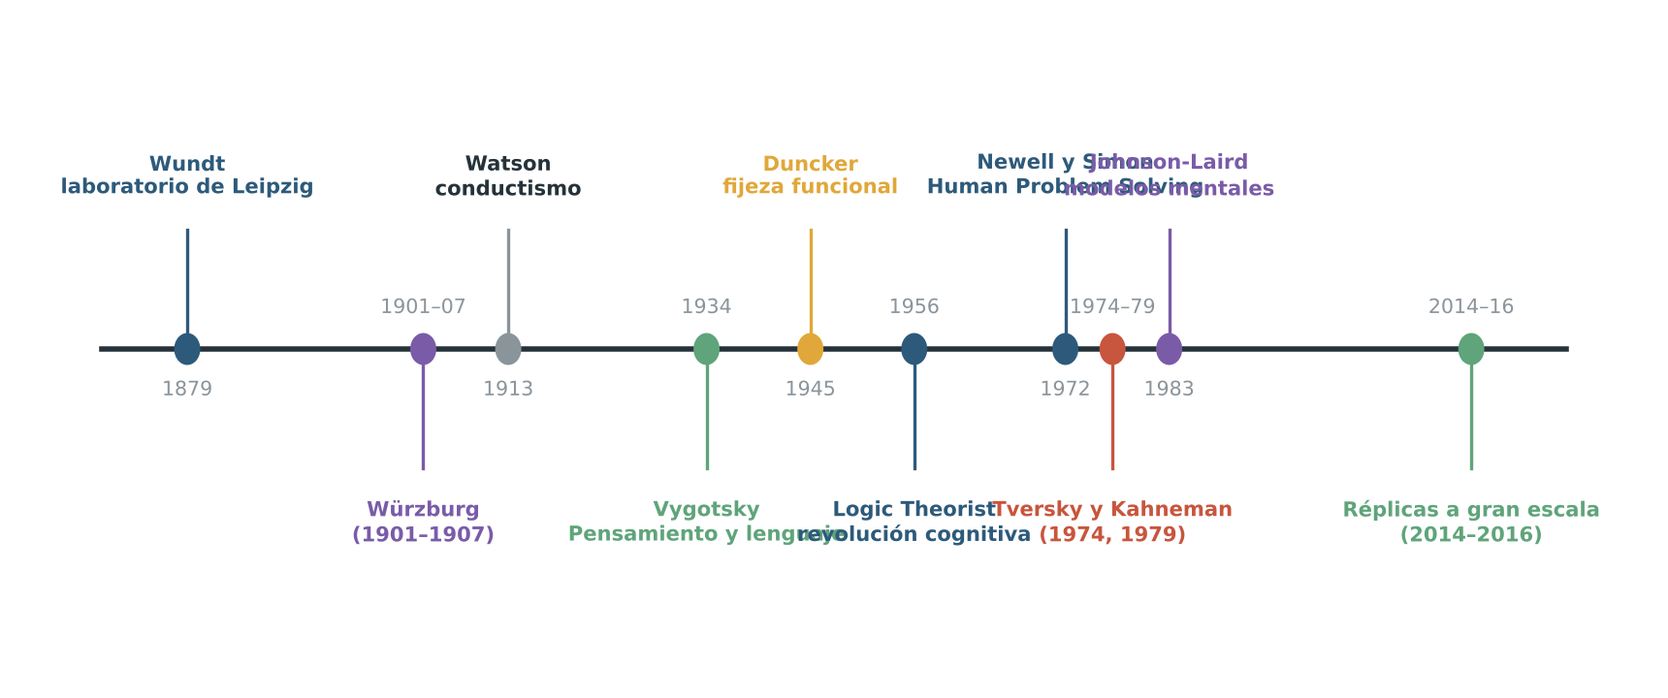
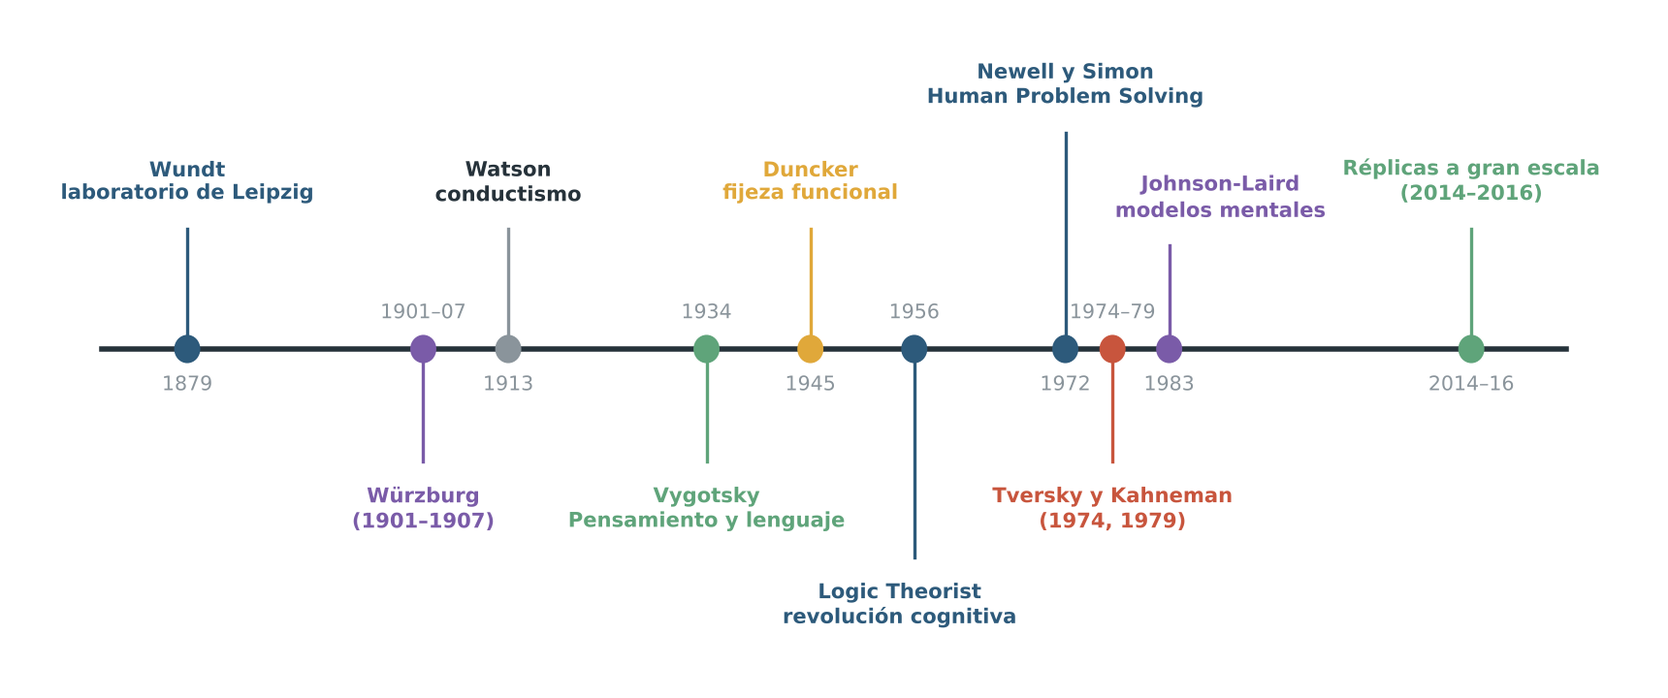
Psicología del Pensamiento: correcciones de la revisión, figuras rehechas y bibliografía
Claude-Session: https://claude.ai/code/session_015DUpSTs1MN9eQeyMEsi2dT

diff --git a/temarios/pensamiento/tools/figuras.py b/temarios/pensamiento/tools/figuras.py
@@ -55,13 +55,16 @@ if want('hitos'):
     x0, x1 = 1870, 2025
     X = lambda yr: 1 + (yr - x0) / (x1 - x0) * 20
     ax.plot([1, 21], [3.5, 3.5], color=INK, lw=2)
+    LV = {1879: 5.6, 1904: 1.5, 1913: 5.6, 1934: 1.5, 1945: 5.6, 1956: 0.3, 1972: 6.8, 1977: 1.5, 1983: 5.4, 2015: 5.6}
+    DX = {1983: .7, 1956: -.2}
     for i, (yr, t, c) in enumerate(H):
-        x = X(yr); up = i % 2 == 0; y = 5.4 if up else 1.6
+        x = X(yr); y = LV[yr]; up = y > 3.5
         ax.plot([x, x], [3.5, y + (-.6 if up else .6)], color=c, lw=1.2)
         ax.add_patch(Circle((x, 3.5), .16, color=c, zorder=3))
         lab = {1904: '1901–07', 1977: '1974–79', 2015: '2014–16'}.get(yr, str(yr))
         ax.text(x, 3.5 + (.45 if not up else -.45), lab, ha='center', va='center', fontsize=7.4, color=MUTE)
-        ax.text(x, y, t, ha='center', va='center', fontsize=7.6, color=c if c != MUTE else INK, weight='bold', linespacing=1.2)
+        ax.text(x + DX.get(yr, 0), y, t, ha='center', va='center', fontsize=7.6, color=c if c != MUTE else INK, weight='bold', linespacing=1.2)
+    ax.set_ylim(-.5, 7.5)
     save(fig, 'hitos.png')
 
 # U3 · protocolos verbales
@@ -81,7 +84,7 @@ if want('protocolos'):
 
 # U4 · conceptos
 if want('conceptos'):
-    fig, axs = plt.subplots(1, 3, figsize=(8.4, 3.2))
+    fig, axs = plt.subplots(1, 3, figsize=(8.4, 3.7))
     for ax in axs: ax.set_xlim(0, 10); ax.set_ylim(0, 10); ax.axis('off'); ax.set_aspect('equal')
     a = axs[0]; a.add_patch(Rectangle((1.5, 2), 7, 6, fc='#E6EEF4', ec=P, lw=2))
     for (x, y) in [(3, 6), (5, 4.5), (7, 6.5), (4, 3.2), (6.5, 3.5)]: a.add_patch(Circle((x, y), .45, color=P))
@@ -98,6 +101,7 @@ if want('conceptos'):
     a.add_patch(Circle((5, 5.6), .5, fc='white', ec=A, lw=2)); a.text(5, 5.6, '?', ha='center', va='center', color=A, weight='bold')
     for (x, y) in pts: a.plot([5, x], [5.6, y], color=A, lw=.8, ls=':')
     a.set_title('Ejemplares\nse compara el caso nuevo\ncon casos almacenados', fontsize=8.6)
+    fig.subplots_adjust(top=.76, bottom=.06)
     fig.text(.01, .02, 'Esquema ilustrativo, no datos', fontsize=7.4, color=MUTE)
     save(fig, 'conceptos.png')
 
@@ -108,7 +112,7 @@ if want('relatividad'):
     ax.add_patch(FancyArrowPatch((.5, 4.2), (11.5, 4.2), arrowstyle='<|-|>', mutation_scale=14, color=INK, lw=1.6))
     ax.text(.5, 5.0, 'Determinismo\n(versión fuerte, abandonada)', fontsize=8.2, color=A, weight='bold', va='center')
     ax.text(11.5, 5.0, 'Influencia\n(versión débil, evidencia mixta)', fontsize=8.2, color=G, weight='bold', va='center', ha='right')
-    for x, t, c in [(8.2, 'Número:\nlos numerales\ncomo herramienta', G), (9.9, 'Color:\nefectos\ncategoriales\nmodulados', P), (6.2, 'Tiempo vertical\nen mandarín:\nno replicado', A)]:
+    for x, t, c in [(7.0, 'Número:\nlos numerales\ncomo herramienta', G), (10.3, 'Color:\nefectos\ncategoriales\nmodulados', P), (3.7, 'Tiempo vertical\nen mandarín:\nno replicado', A)]:
         ax.add_patch(Circle((x, 4.2), .17, color=c, zorder=3)); ax.text(x, 2.6, t, ha='center', va='center', fontsize=7.6, color=c, weight='bold')
     ax.text(0.5, .5, 'Esquema ilustrativo', fontsize=7.4, color=MUTE)
     b = fig.add_axes([.66, .2, .32, .65])
@@ -380,12 +384,14 @@ if want('calor'):
 # U14 · Torre de Hanói (grafo de estados)
 if want('hanoi'):
     import itertools
-    def pos(s, d, size):
+    C = {0: (0, 0), 1: (-1, -1.7320508), 2: (1, -1.7320508)}
+    def pos(s, d, size, perm=(0, 1, 2)):
+        # triángulo de Sierpinski: el disco mayor elige el subtriángulo; dentro, se intercambian las otras dos esquinas
         if d == 0: return (0, 0)
-        # triángulo recursivo de Sierpinski: el disco mayor (último) decide el subtriángulo
-        peg = s[d - 1]; off = {0: (0, 0), 1: (-1, -1.7320508), 2: (1, -1.7320508)}[peg]
-        sub = pos(s, d - 1, size / 2); k = size / 2
-        return (off[0] * k + sub[0], off[1] * k + sub[1])
+        c = perm[s[d - 1]]; o = [k for k in (0, 1, 2) if k != c]
+        sw = {c: c, o[0]: o[1], o[1]: o[0]}
+        sub = pos(s, d - 1, size / 2, tuple(sw[perm[k]] for k in range(3))); k = size / 2
+        return (C[c][0] * k + sub[0], C[c][1] * k + sub[1])
     states = list(itertools.product(range(3), repeat=3))
     P2 = {s: pos(s, 3, 4) for s in states}
     def legal(a, b):
@@ -401,8 +407,8 @@ if want('hanoi'):
     for s in states: ax.add_patch(Circle(P2[s], .16, color=P if s not in opt else A, zorder=3))
     ax.text(P2[(0, 0, 0)][0], P2[(0, 0, 0)][1] + .45, 'Inicio: los 3 discos en la varilla 1', ha='center', fontsize=8.4, color=INK, weight='bold')
     ax.text(P2[(2, 2, 2)][0] + .3, P2[(2, 2, 2)][1] - .45, 'Meta: los 3 en la varilla 3', ha='center', fontsize=8.4, color=INK, weight='bold')
-    ax.text(-4.4, -6.6, '27 estados (nodos) · cada línea = un movimiento legal\nEn rojo, el camino mínimo: 7 movimientos (2³ − 1)', fontsize=8.2, color=INK)
-    ax.set_xlim(-4.6, 4.6); ax.set_ylim(-7.2, .9)
+    ax.text(-4.4, -7.0, '27 estados (nodos) · cada línea = un movimiento legal\nEn rojo, el camino mínimo: 7 movimientos (2³ − 1)', fontsize=8.2, color=INK)
+    ax.set_xlim(-4.6, 4.6); ax.set_ylim(-7.6, .9)
     save(fig, 'hanoi.png')
 
 # U15 · función de valor

diff --git a/temarios/pensamiento/03-tipologias.md b/temarios/pensamiento/03-tipologias.md
@@ -8,7 +8,7 @@ Pensar no es una actividad única: a veces seguimos reglas paso a paso, a veces 
 
 ### 6.1 Pensamiento formal frente a pensamiento intuitivo
 
-El **pensamiento formal** o analítico aplica **reglas que no dependen del contenido**. Un argumento es válido por su forma, no por aquello de lo que habla. Si de «todos los X son Y» y «esto es un X» se sigue «esto es un Y», da igual que X sean gatos, impuestos o planetas. La lógica se apoya en principios elementales, como el de **no contradicción** (una afirmación no puede ser a la vez verdadera y falsa en el mismo sentido), y en reglas de inferencia que garantizan que, si las premisas son verdaderas, la conclusión también lo es. Este modo de pensar es lento, sigue pasos explícitos y exige mantener varias representaciones a la vez en la memoria de trabajo (Unidad 4).
+El **pensamiento formal** o analítico aplica **reglas que no dependen del contenido**. Un argumento es válido por su forma, no por aquello de lo que habla. Si de «todos los X son Y» y «esto es un X» se sigue «esto es un Y», da igual que X sean gatos, impuestos o planetas. La lógica se apoya en principios elementales, como el de **no contradicción** (no cabe afirmar y negar lo mismo a la vez y en el mismo sentido), y en reglas de inferencia que garantizan que, si las premisas son verdaderas, la conclusión también lo es. Este modo de pensar es lento, sigue pasos explícitos y exige mantener varias representaciones a la vez en la memoria de trabajo (Unidad 4).
 
 El **pensamiento intuitivo** funciona de otro modo. Es **rápido**, **asociativo** y se apoya en la experiencia acumulada: reconoce patrones, recupera lo que suele ocurrir y ofrece una respuesta casi sin esfuerzo. Por eso es muy **sensible a las creencias** y al contenido concreto del problema. Ante la misma estructura lógica, cambia la respuesta si el ejemplo resulta familiar o verosímil.
 
@@ -174,13 +174,13 @@ b) se basan en reglas comunes de un sistema único
 c) solo difieren en el grado de conciencia
 
 **5.** En los datos de Frederick (2005), el porcentaje de la muestra global que acertó los tres ítems del CRT fue…
-a) un 17 %
-b) un 33 %
-c) un 48 %
+a) un 33 %
+b) un 48 %
+c) un 17 %
 
 ### Soluciones
 
-**1 b.** Rapidez o conciencia son correlatos; lo definitorio es la memoria de trabajo y el desacoplamiento. **2 a.** La reflexión surge cuando algo no encaja y la acción habitual se interrumpe. **3 c.** La sensación de que la respuesta es correcta actúa como señal de parada (Thompson, Prowse Turner y Pennycook, 2011). **4 b.** Es la propuesta de sistema único frente a la arquitectura dual. **5 a.** El 33 % no acertó ninguno; el 48 % corresponde a los estudiantes del MIT.
+**1 b.** Rapidez o conciencia son correlatos; lo definitorio es la memoria de trabajo y el desacoplamiento. **2 a.** La reflexión surge cuando algo no encaja y la acción habitual se interrumpe. **3 c.** La sensación de que la respuesta es correcta actúa como señal de parada (Thompson, Prowse Turner y Pennycook, 2011). **4 b.** Es la propuesta de sistema único frente a la arquitectura dual. **5 c.** El 33 % no acertó ninguno; el 48 % corresponde a los estudiantes del MIT.
 
 ## Unidad 7 · Pensamiento crítico
 
@@ -221,7 +221,7 @@ Por último, la validez depende de la forma y la verdad, de cómo es el mundo: u
 
 El pensamiento crítico tiene que vigilar también los **sesgos** del propio juicio. El programa de **heurísticos y sesgos** arrancó con Tversky y Kahneman (1974): al juzgar probabilidades, las personas no calculan, sino que usan **heurísticos**, atajos que suelen funcionar pero producen **sesgos sistemáticos**, errores con una dirección predecible. El artículo describió tres:
 
-- **Representatividad**: se juzga la probabilidad de que algo pertenezca a una categoría por lo mucho que se **parece** a ella.
+- **Representatividad**: la probabilidad de que algo pertenezca a una categoría se estima por su **parecido** con el caso típico de esa categoría.
 - **Disponibilidad**: se juzga la frecuencia por la **facilidad** con que vienen ejemplos a la mente. Tras varios reportajes sobre robos en viviendas, uno sobrestima su frecuencia.
 - **Anclaje y ajuste**: se parte de un valor inicial, aunque sea arbitrario, y se ajusta de forma **insuficiente** (Jacowitz y Kahneman, 1995). Un precio de salida alto arrastra hacia arriba la contraoferta.
 
@@ -247,7 +247,7 @@ La respuesta típica ronda el **0,80** (aprox.): se toma la fiabilidad del testi
 | --- | --- | --- |
 | Confirmación | Buscar y valorar más la información que apoya lo que ya se cree | Unidad 11 (tarea 2-4-6) |
 | Retrospectivo | Tras conocer un resultado, creer que era más previsible de lo que era (Fischhoff, 1975) | — |
-| Exceso de confianza | Estar más seguro de los propios juicios de lo que justifica su acierto | Unidad 12 |
+| Exceso de confianza | Estar más seguro de los propios juicios de lo que justifica su acierto | — |
 | Efecto marco | Elegir distinto según se presente lo mismo como ganancia o como pérdida | Unidad 15 |
 | Sesgo de creencia | Juzgar un argumento por la credibilidad de su conclusión | Unidad 9 |
 
@@ -359,18 +359,18 @@ b) 0,41
 c) 0,15
 
 **4.** En Many Labs 1 (Klein et al., 2014), el efecto marco de la enfermedad asiática…
-a) no se replicó en ninguna muestra
+a) se replicó con un efecto menor que el original
 b) se replicó con un efecto mayor que el original
-c) se replicó con un efecto menor que el original
+c) no se replicó en ninguna muestra
 
 **5.** Según Abrami et al. (2015), las intervenciones para enseñar pensamiento crítico…
-a) tienen un efecto medio modesto, g+ = 0,30
-b) no muestran ningún efecto medio apreciable
-c) tienen un efecto muy grande y uniforme
+a) no muestran ningún efecto medio apreciable
+b) tienen un efecto muy grande y uniforme
+c) tienen un efecto medio modesto, g+ = 0,30
 
 ### Soluciones
 
-**1 c.** Se afirma el consecuente («ha estudiado») para concluir el antecedente; es una falacia formal. **2 a.** La descripción se parece a una feminista y la semejanza sustituye a la probabilidad. **3 b.** 0,12/(0,12 + 0,17) ≈ 0,41; 0,80 es la respuesta típica que ignora la tasa base. **4 c.** Se obtuvo d = 0,60 frente a 1,13 en el original. **5 a.** El efecto es real pero modesto, y mayor con diálogo, problemas auténticos y mentoría.
+**1 c.** Se afirma el consecuente («ha estudiado») para concluir el antecedente; es una falacia formal. **2 a.** La descripción se parece a una feminista y la semejanza sustituye a la probabilidad. **3 b.** 0,12/(0,12 + 0,17) ≈ 0,41; 0,80 es la respuesta típica que ignora la tasa base. **4 a.** Se obtuvo d = 0,60 frente a 1,13 en el original. **5 c.** El efecto es real pero modesto, y mayor con diálogo, problemas auténticos y mentoría.
 
 ## Unidad 8 · Creatividad y otros modos de pensar
 
@@ -484,7 +484,7 @@ El estudio clásico es el de Gick y Holyoak (1980) con el **problema de la radia
 
 Figura 8.3. **Problema de la radiación y análogo de la fortaleza.** Con la historia de la fortaleza y una pista para usarla, el 92 % resolvió el problema; sin la pista, solo el 20 %. Datos de Gick y Holyoak (1980, Exp. IV). Elaboración propia.
 
-Como muestra la figura 8.3, casi todos tenían la solución en la memoria, pero no la usaban si nadie les indicaba que la historia servía. El **cuello de botella** de la analogía es la **recuperación espontánea** de la fuente: tendemos a recuperar casos por su parecido superficial, no por su estructura.
+Como muestra la figura 8.3, la mayoría había leído la historia que contenía la solución, pero pocos la aplicaban si nadie les indicaba que servía para el problema. El **cuello de botella** de la analogía es la **recuperación espontánea** de la fuente: tendemos a recuperar casos por su parecido superficial, no por su estructura.
 
 **Pensamiento práctico.** Es el que se aplica a problemas cotidianos, mal definidos y ligados al contexto: organizar una semana con tres turnos de trabajo, negociar con un casero o saber cuándo conviene no discutir con un jefe. Sternberg, en su **teoría triárquica**, distinguió una inteligencia práctica, apoyada en el **conocimiento tácito**: saberes que no se enseñan de forma explícita y se adquieren con la experiencia (véase Psicología Diferencial).
 
@@ -544,10 +544,10 @@ b) producen menos ideas, en parte por el bloqueo de producción
 c) producen las mismas ideas, pero de mayor originalidad
 
 **5.** En Gick y Holyoak (1980), la mayoría resolvió el problema de la radiación solo cuando…
-a) leyó la historia sin recibir ninguna pista
-b) se le explicó directamente la solución médica
-c) recibió la historia y una pista para usarla
+a) recibió la historia y una pista para usarla
+b) leyó la historia sin recibir ninguna pista
+c) se le explicó directamente la solución médica
 
 ### Soluciones
 
-**1 b.** Muchas respuestas indican fluidez; que sean de una sola categoría, poca flexibilidad. **2 c.** La iluminación sigue a la incubación y la verificación cierra el proceso. **3 a.** La incubación ayuda más cuando ya se ha trabajado el problema; las tareas divergentes y las pausas de baja demanda también la favorecen. **4 b.** Los grupos nominales generan más ideas (Diehl y Stroebe, 1987). **5 c.** Con pista, el 92 %; sin ella, el 20 %: el problema es recuperar el análogo de forma espontánea.
+**1 b.** Muchas respuestas indican fluidez; que sean de una sola categoría, poca flexibilidad. **2 c.** La iluminación sigue a la incubación y la verificación cierra el proceso. **3 a.** La incubación ayuda más cuando ya se ha trabajado el problema; las tareas divergentes y las pausas de baja demanda también la favorecen. **4 b.** Los grupos nominales generan más ideas (Diehl y Stroebe, 1987). **5 a.** Con pista, el 92 %; sin ella, el 20 %: el problema es recuperar el análogo de forma espontánea.

diff --git a/temarios/pensamiento/01-fundamentos.md b/temarios/pensamiento/01-fundamentos.md
@@ -12,7 +12,7 @@ En psicología, **pensar** es manipular representaciones mentales para ir más a
 
 El término «pensamiento» tiene dos sentidos que conviene separar desde el principio:
 
-- **Pensamiento como proceso**: la secuencia de operaciones mentales que transforma unas representaciones en otras. Comparar, descartar alternativas, buscar un ejemplo o imaginar una consecuencia son operaciones de este tipo.
+- **Pensamiento como proceso**: el encadenamiento de operaciones mentales que transforma unas representaciones en otras. Comparar, descartar alternativas, buscar un ejemplo o imaginar una consecuencia son operaciones de este tipo.
 - **Pensamiento como producto**: el resultado de esas operaciones. Puede ser un **concepto** («esto es una estafa telefónica»), un **juicio** («es poco probable que el banco me pida la clave por SMS»), una **conclusión**, una **decisión** o una **solución**.
 
 | Rasgo | Proceso | Producto |
@@ -132,7 +132,7 @@ El funcionalismo amplió además el campo de la psicología a las **diferencias 
 | Concepto | Definición |
 | --- | --- |
 | Pensamiento | Manipulación de representaciones para inferir, resolver problemas, juzgar o decidir |
-| Pensamiento como proceso | Secuencia de operaciones mentales que transforma unas representaciones en otras |
+| Pensamiento como proceso | Encadenamiento de operaciones mentales que transforma unas representaciones en otras |
 | Pensamiento como producto | Resultado del proceso: concepto, juicio, conclusión, decisión o solución |
 | Error sistemático | Equivocación que sigue un patrón y revela la estrategia de razonamiento empleada |
 | Introspección experimental | Método de Wundt: autoobservación entrenada de la experiencia ante estímulos controlados |
@@ -208,9 +208,9 @@ En 1913, **John B. Watson** publicó el artículo considerado el manifiesto del 
 
 Es frecuente leer que el conductismo **negó** el pensamiento. No es exacto. Watson no lo negó: lo **redefinió** como conducta. En su trabajo de 1920 sostuvo que pensar es, básicamente, **habla subvocal**: los mismos hábitos del lenguaje hablado, pero tan reducidos que solo producen movimientos mínimos de la laringe y la lengua. Pensar sería hablar en silencio, una **conducta implícita** que se aprende igual que cualquier otra.
 
-Esta tesis era comprobable, y se puso a prueba. Si pensar consiste en movimientos del aparato fonador, al paralizar esos músculos debería ser imposible pensar. En un experimento célebre, un investigador se administró curare, una sustancia que paraliza los músculos, y comprobó que, mientras duraba la parálisis, seguía siendo capaz de percibir, entender lo que le decían y recordarlo después (Smith et al., 1947). El pensamiento no requería, por tanto, movimientos musculares. La versión estricta de Watson quedó refutada, aunque se conserva la idea de que la actividad del habla puede acompañar a algunos pensamientos.
+Esta tesis era comprobable, y se puso a prueba. Si pensar consiste en movimientos del aparato fonador, al paralizar esos músculos debería ser imposible pensar. En un experimento célebre, un investigador se sometió a la acción del curare, una sustancia que paraliza los músculos, y comprobó que, mientras duraba la parálisis, seguía siendo capaz de percibir, entender lo que le decían y recordarlo después (Smith et al., 1947). El pensamiento no requería, por tanto, movimientos musculares. La versión estricta de Watson quedó refutada, aunque se conserva la idea de que la actividad del habla puede acompañar a algunos pensamientos.
 
-**B. F. Skinner** mantuvo un enfoque parecido. En *Verbal Behavior* (Skinner, 1957) trató el pensamiento como **conducta verbal encubierta**, sujeta a las mismas leyes del refuerzo que la conducta visible. Para Skinner, los procesos internos existen, pero no explican nada: son conducta que también hay que explicar por la historia de refuerzo. Las leyes del condicionamiento se estudian en la asignatura de Aprendizaje.
+**B. F. Skinner** mantuvo un enfoque parecido. En *Verbal Behavior* (Skinner, 1957) trató el pensamiento como **conducta verbal encubierta**, explicable por el refuerzo igual que la conducta visible. Para Skinner, los procesos internos existen, pero no explican nada: son conducta que también hay que explicar por la historia de refuerzo. Las leyes del condicionamiento se estudian en la asignatura de Aprendizaje.
 
 Dentro del propio conductismo surgieron voces que se acercaban a lo cognitivo. **Edward C. Tolman** defendió que las ratas que aprendían un laberinto formaban **mapas cognitivos** (Tolman, 1948), representaciones internas del entorno que les permitían tomar atajos nunca recorridos. Introdujo así **variables intermedias** entre el estímulo y la respuesta, como las expectativas y las metas, y anticipó ideas de la psicología cognitiva.
 
@@ -224,7 +224,7 @@ El balance es claro en dos sentidos. Por un lado, el conductismo aportó **rigor
 
 ### 2.3 Piaget y el desarrollo del pensamiento
 
-**Jean Piaget** abordó el pensamiento desde una pregunta distinta a la de las escuelas anteriores: no qué es, sino **cómo se construye**. Su epistemología genética sostiene que el pensamiento lógico no es innato ni se copia del exterior, sino que el niño lo construye mediante su **acción** sobre el mundo. Los niños no piensan igual que los adultos, no porque sepan menos, sino porque organizan el conocimiento de otra manera.
+**Jean Piaget** abordó el pensamiento desde una pregunta distinta a la de las escuelas anteriores: no qué es, sino **cómo se construye**. Su epistemología genética sostiene que el pensamiento lógico no es innato ni se copia del exterior, sino que el niño lo construye mediante su **acción** sobre el mundo. La diferencia entre el niño y el adulto no es de cantidad de conocimientos, sino de organización: cada etapa tiene su propia lógica.
 
 Los mecanismos de esta construcción son tres:
 
@@ -253,7 +253,7 @@ Un ejemplo: un niño de cinco años cree que hay más zumo en un vaso alto y est
 
 ### 2.4 Vygotsky: pensamiento, lenguaje y cultura
 
-**Lev S. Vygotsky** propuso una perspectiva **sociocultural**: las funciones mentales superiores, como razonar, planificar o regular la propia conducta, no se desarrollan solo desde dentro del niño, sino a partir de la interacción con los demás y de las herramientas que ofrece la cultura. Su obra más citada sobre este tema es *Pensamiento y lenguaje* (Vygotsky, 1934).
+**Lev S. Vygotsky** propuso una perspectiva **sociocultural**: capacidades como razonar, planificar o regular la propia conducta nacen de la interacción con los demás y de las herramientas que ofrece la cultura, y no solo de la maduración interna del niño. Su obra más citada sobre este tema es *Pensamiento y lenguaje* (Vygotsky, 1934).
 
 Tres ideas organizan su planteamiento:
 
@@ -324,9 +324,9 @@ a) el niño construye el conocimiento mediante la acción
 b) los adultos razonan de forma general con lógica formal
 c) el estadio sensoriomotor precede al preoperacional
 
-**4.** Para Vygotsky, el habla en voz alta que el niño se dirige a sí mismo…
-a) se interioriza y sirve para regular la propia acción
-b) refleja el egocentrismo y desaparece con la edad
+**4.** Para Vygotsky, lo que el niño se dice en voz alta mientras actúa…
+a) refleja el egocentrismo y desaparece con la edad
+b) se interioriza y sirve para regular la propia acción
 c) carece de relación con el desarrollo del pensamiento
 
 **5.** El experimento con curare de Smith et al. (1947) fue relevante porque mostró que…
@@ -336,7 +336,7 @@ c) se puede pensar con los músculos del habla paralizados
 
 ### Soluciones
 
-**1 a.** Ach (1905) mostró que la instrucción orienta las respuestas sin necesidad de recordarla de forma consciente. **2 c.** Watson redefinió el pensamiento como conducta, no lo negó. **3 b.** Muchos adultos fallan la versión abstracta de la tarea de selección y dependen del contenido. **4 a.** La interpretación de b corresponde a Piaget. **5 c.** El resultado refutó la versión estricta de la tesis de Watson.
+**1 a.** Ach (1905) mostró que la instrucción orienta las respuestas sin necesidad de recordarla de forma consciente. **2 c.** Watson redefinió el pensamiento como conducta, no lo negó. **3 b.** Muchos adultos fallan la versión abstracta de la tarea de selección y dependen del contenido. **4 b.** La interpretación de a corresponde a Piaget. **5 c.** El resultado refutó la versión estricta de la tesis de Watson.
 
 ## Unidad 3 · La revolución cognitiva y sus métodos
 

diff --git a/temarios/pensamiento/02-procesos.md b/temarios/pensamiento/02-procesos.md
@@ -163,13 +163,13 @@ b) la visión clásica de los conceptos
 c) los conceptos basados en teorías
 
 **5.** Un estudiante sabe aplicar la fórmula de Bayes, pero no se da cuenta de que un problema la requiere. Le falla el conocimiento…
-a) condicional
-b) declarativo
-c) procedimental
+a) declarativo
+b) procedimental
+c) condicional
 
 ### Soluciones
 
-**1 c.** Cuantos más modelos hay que mantener a la vez, mayor es la carga y más errores aparecen. **2 a.** El bucle fonológico y la agenda visoespacial mantienen información; el ejecutivo central los coordina. **3 b.** El nivel básico es el que se usa por defecto para nombrar; no debe confundirse con el prototipo. **4 c.** El conocimiento causal pesa más que la semejanza superficial. **5 a.** Sabe qué es y cómo se aplica, pero no cuándo ni por qué usarla.
+**1 c.** Cuantos más modelos hay que mantener a la vez, mayor es la carga y más errores aparecen. **2 a.** El bucle fonológico y la agenda visoespacial mantienen información; el ejecutivo central los coordina. **3 b.** El nivel básico es el que se usa por defecto para nombrar; no debe confundirse con el prototipo. **4 c.** El conocimiento causal pesa más que la semejanza superficial. **5 c.** Sabe qué es y cómo se aplica, pero no cuándo ni por qué usarla.
 
 ## Unidad 5 · Lenguaje y pensamiento
 
@@ -226,9 +226,9 @@ Un ejemplo práctico: alguien está agobiado por «todo lo que tiene pendiente»
 
 ### 5.3 Habla interna y autorregulación
 
-**De lo social a lo interno.** Vygotsky (1934) propuso que el pensamiento verbal surge de la interiorización del lenguaje social. El niño primero es guiado por las palabras del adulto; después se habla a sí mismo en voz alta mientras juega o resuelve una tarea (**habla privada**); por último, ese habla se interioriza y se convierte en **habla interna**, silenciosa y abreviada. Pensamiento y lenguaje tienen raíces distintas y convergen hacia los dos años, cuando el lenguaje se vuelve intelectual y el pensamiento, verbal.
+**De lo social a lo interno.** Vygotsky (1934) propuso que el pensamiento verbal surge de la interiorización del lenguaje social. El niño primero es guiado por las palabras del adulto; después se habla a sí mismo en voz alta mientras juega o resuelve una tarea (**habla privada**); por último, esa habla se interioriza y se convierte en **habla interna**, silenciosa y abreviada. Pensamiento y lenguaje tienen raíces distintas y convergen hacia los dos años, cuando el lenguaje se vuelve intelectual y el pensamiento, verbal.
 
-Aquí está una de las trampas más repetidas. Piaget llamó **habla egocéntrica** al habla del niño consigo mismo y la consideró un reflejo de su egocentrismo, destinado a **desaparecer**. Para Vygotsky, en cambio, ese habla no desaparece: **se interioriza** y adquiere una función de **autorregulación**. La asignatura de Desarrollo estudia ambas teorías en detalle.
+Aquí está una de las trampas más repetidas. Piaget llamó **habla egocéntrica** al habla del niño consigo mismo y la consideró un reflejo de su egocentrismo, destinado a **desaparecer**. Para Vygotsky, en cambio, esa habla no desaparece: **se interioriza** y adquiere una función de **autorregulación**. La asignatura de Desarrollo estudia ambas teorías en detalle.
 
 **La regulación verbal de la conducta.** Luria (1961), discípulo y colaborador de Vygotsky, estudió cómo las palabras llegan a iniciar, mantener e inhibir acciones: primero las del adulto, después las del propio niño. Esta línea de trabajo dio lugar a técnicas aplicadas, como el entrenamiento en autoinstrucciones de Meichenbaum y Goodman (1971), en el que se enseña a guiar la propia conducta con frases dichas primero en voz alta y luego en silencio.
 
@@ -253,7 +253,7 @@ Un dato experimental muestra su papel en el control. En tareas que exigen altern
 
 La revisión subraya que el habla interna no es uniforme. Puede ser **condensada**, casi telegráfica, o **expandida**, con frases completas; puede ser un monólogo o un diálogo entre voces. Las personas difieren mucho en cuánto la experimentan, y algunas dicen apenas tenerla.
 
-En el ámbito clínico, una hipótesis influyente propone que algunas **alucinaciones auditivas verbales** consisten en habla interna que la persona no reconoce como propia. Este tema se trata en Psicopatología. Watson (1913) ya identificó el pensamiento con el habla subvocal (Unidad 2); la investigación actual recupera el habla interna sin reducir a ella todo el pensamiento.
+En el ámbito clínico, una hipótesis influyente propone que algunas **alucinaciones auditivas verbales** consisten en habla interna que la persona no reconoce como propia. Este tema se trata en Psicopatología. Watson (1913, 1920) ya identificó el pensamiento con el habla subvocal (Unidad 2); la investigación actual recupera el habla interna sin reducir a ella todo el pensamiento.
 
 ### 5.4 Relatividad lingüística: qué dicen los datos
 
@@ -317,7 +317,7 @@ La interpretación más aceptada es que los numerales son una **tecnología cogn
 
 ### Autoevaluación
 
-**1.** Según Vygotsky (1934), el habla que el niño se dirige a sí mismo en voz alta…
+**1.** Según Vygotsky (1934), lo que el niño se dice en voz alta mientras juega o resuelve una tarea…
 a) desaparece al superar el egocentrismo
 b) se interioriza y pasa a regular la conducta
 c) es un simple reflejo de su pensamiento
@@ -333,8 +333,8 @@ b) emparejar objetos uno a uno a la vista
 c) comparar cantidades aproximadas grandes
 
 **4.** ¿Qué afirmación describe mejor el estado actual de la hipótesis de Sapir-Whorf?
-a) La versión fuerte tiene apoyo en el color
-b) La versión fuerte está abandonada y la débil tiene apoyo mixto
+a) La versión fuerte está abandonada y la débil tiene apoyo mixto
+b) La versión fuerte tiene apoyo en el color
 c) Ambas versiones han sido refutadas por completo
 
 **5.** Impedir el habla interna con supresión articulatoria aumenta sobre todo…
@@ -344,4 +344,4 @@ c) el coste de cambiar de una tarea a otra
 
 ### Soluciones
 
-**1 b.** Para Vygotsky el habla privada se interioriza y autorregula; la idea de que desaparece es de Piaget. **2 c.** Forzar la traducción verbal de algo difícil de expresar empeora su representación (Schooler y Engstler-Schooler, 1990). **3 a.** Emparejaban casi sin error con los objetos delante; fallaban cuando había que guardar la cantidad. **4 b.** El determinismo está abandonado; la influencia varía según el dominio. **5 c.** Sin la voz interna que recuerda qué toca hacer, cuesta más mantener el plan (Emerson y Miyake, 2003).
+**1 b.** Para Vygotsky el habla privada se interioriza y autorregula; la idea de que desaparece es de Piaget. **2 c.** Forzar la traducción verbal de algo difícil de expresar empeora su representación (Schooler y Engstler-Schooler, 1990). **3 a.** Emparejaban casi sin error con los objetos delante; fallaban cuando había que guardar la cantidad. **4 a.** El determinismo está abandonado; la influencia varía según el dominio. **5 c.** Sin la voz interna que recuerda qué toca hacer, cuesta más mantener el plan (Emerson y Miyake, 2003).

diff --git a/temarios/pensamiento/06-apendices.md b/temarios/pensamiento/06-apendices.md
@@ -61,10 +61,12 @@
 | La memoria de trabajo tiene una capacidad fija de siete elementos | El «7 ± 2» se refiere a fragmentos y hoy se estima una capacidad menor, en torno a cuatro | 4 |
 | La lengua determina lo que se puede pensar | El determinismo está abandonado; hay influencias modestas y específicas | 5 |
 | El Sistema 1 yerra y el Sistema 2 acierta | Las intuiciones pueden ser correctas y la deliberación puede racionalizar errores | 6 |
-| Las personas inteligentes no caen en sesgos | Muchos sesgos son poco dependientes de la capacidad cognitiva | 7, 12 |
-| La creatividad es cosa del hemisferio derecho | Depende de la interacción de redes bilaterales | 8, 13 |
+| Las personas inteligentes no caen en sesgos | Muchos sesgos son poco dependientes de la capacidad cognitiva | 7 |
+| La creatividad es cosa del hemisferio derecho | Depende de la interacción de redes bilaterales | 8 |
 | Una conclusión verdadera implica un razonamiento correcto | Validez y verdad son independientes | 9 |
 | Razonamos con lógica formal y los errores son despistes | Los errores son sistemáticos y dependen del contenido | 10 |
+| El sesgo de confirmación prueba que el razonamiento está mal diseñado | Es esperable si razonar sirve para argumentar; en el diálogo se corrige | 12 |
+| El insight es un golpe de suerte sin trabajo previo | Llega tras la preparación y el impasse; la incubación ayuda más tras una preparación larga | 13 |
 | Ignorar la tasa base es inevitable | Con frecuencias naturales el razonamiento bayesiano mejora mucho | 11 |
 | Los expertos tienen una memoria prodigiosa | Su ventaja se limita a configuraciones con sentido en su dominio | 14 |
 | Las pérdidas pesan exactamente el doble | La estimación media actual ronda λ ≈ 1,96 y varía mucho entre estudios | 15 |
@@ -104,13 +106,16 @@
 - Kahneman, D. y Tversky, A. (1979). Prospect theory: An analysis of decision under risk. *Econometrica, 47*(2), 263–291.
 - Khemlani, S. y Johnson-Laird, P. N. (2012). Theories of the syllogism: A meta-analysis. *Psychological Bulletin, 138*(3), 427–457.
 - Klein, R. A. et al. (2014). Investigating variation in replicability: A «many labs» replication project. *Social Psychology, 45*(3), 142–152. https://doi.org/10.1027/1864-9335/a000178
+- Kühberger, A. (1998). The influence of framing on risky decisions: A meta-analysis. *Organizational Behavior and Human Decision Processes, 75*(1), 23–55.
 - Maier, M. et al. (2022). No evidence for nudging after adjusting for publication bias. *Proceedings of the National Academy of Sciences, 119*(31), e2200300119. https://doi.org/10.1073/pnas.2200300119
+- Martinovic, J., Paramei, G. V. y MacInnes, W. J. (2020). Russian blues reveal the limits of language influencing colour discrimination. *Cognition, 201*, 104281.
 - Mercier, H. y Sperber, D. (2011). Why do humans reason? Arguments for an argumentative theory. *Behavioral and Brain Sciences, 34*(2), 57–111.
 - Mertens, S., Herberz, M., Hahnel, U. J. J. y Brosch, T. (2022). The effectiveness of nudging: A meta-analysis of choice architecture interventions across behavioral domains. *Proceedings of the National Academy of Sciences, 119*(1), e2107346118.
 - Pica, P., Lemer, C., Izard, V. y Dehaene, S. (2004). Exact and approximate arithmetic in an Amazonian indigene group. *Science, 306*(5695), 499–503. https://doi.org/10.1126/science.1102085
 - Ruggeri, K. et al. (2020). Replicating patterns of prospect theory for decision under risk. *Nature Human Behaviour, 4*, 622–633. https://doi.org/10.1038/s41562-020-0886-x
 - Scheibehenne, B., Greifeneder, R. y Todd, P. M. (2010). Can there ever be too many options? A meta-analytic review of choice overload. *Journal of Consumer Research, 37*(3), 409–425. https://doi.org/10.1086/651235
 - Sio, U. N. y Ormerod, T. C. (2009). Does incubation enhance problem solving? A meta-analytic review. *Psychological Bulletin, 135*(1), 94–120. https://doi.org/10.1037/a0014212
+- Smith, S. M., Brown, H. O., Toman, J. E. P. y Goodman, L. S. (1947). The lack of cerebral effects of d-tubocurarine. *Anesthesiology, 8*(1), 1–14.
 - Tversky, A. y Kahneman, D. (1974). Judgment under uncertainty: Heuristics and biases. *Science, 185*(4157), 1124–1131.
 - Tversky, A. y Kahneman, D. (1981). The framing of decisions and the psychology of choice. *Science, 211*(4481), 453–458.
 - Tversky, A. y Kahneman, D. (1983). Extensional versus intuitive reasoning: The conjunction fallacy in probability judgment. *Psychological Review, 90*(4), 293–315.

diff --git a/temarios/pensamiento/04b-razonamiento.md b/temarios/pensamiento/04b-razonamiento.md
@@ -92,7 +92,7 @@ Como muestra la figura 11.3, el problema resulta mucho más claro en **frecuenci
 
 Figura 11.4. **Formato de la información y respuestas bayesianas.** Porcentaje de respuestas correctas con probabilidades frente a frecuencias naturales: del 16 % al 46 % con el menú estándar de datos y del 28 % al 50 % con el menú corto. Datos de Gigerenzer y Hoffrage (1995). Elaboración propia.
 
-Como muestra la figura 11.4, las frecuencias naturales casi triplican los aciertos con el menú estándar (tasa base, tasa de aciertos y falsos positivos) y también los mejoran con el menú corto, que da solo los dos datos imprescindibles. Aun así, la mitad de las respuestas siguen sin ser bayesianas. Hay dos explicaciones en **debate**. Para Gigerenzer, la mente está adaptada a la información tal como aparece en el entorno, en forma de recuentos (visión **ecológico-evolutiva**). Para Barbey y Sloman (2007), las frecuencias ayudan porque hacen visibles los **conjuntos anidados**: los positivos con cáncer son un subconjunto de todos los positivos.
+Como muestra la figura 11.4, las frecuencias naturales casi triplican los aciertos con el menú estándar (tasa base, tasa de aciertos y falsos positivos) y también los mejoran con el menú corto, que da solo los dos datos imprescindibles. Aun así, alrededor de la mitad de las respuestas siguen sin ser bayesianas. Hay dos explicaciones en **debate**. Para Gigerenzer, la mente está adaptada a la información tal como aparece en el entorno, en forma de recuentos (visión **ecológico-evolutiva**). Para Barbey y Sloman (2007), las frecuencias ayudan porque hacen visibles los **conjuntos anidados**: los positivos con cáncer son un subconjunto de todos los positivos.
 
 El enfoque bayesiano se usa también como **teoría de la cognición**: Tenenbaum, Kemp, Griffiths y Goodman (2011) describen muchos aprendizajes inductivos como inferencia bayesiana. Se discute si estos modelos describen **qué problema** resuelve la mente (nivel computacional) o **cómo** lo resuelve (nivel de proceso).
 
@@ -106,7 +106,7 @@ El enfoque bayesiano se usa también como **teoría de la cognición**: Tenenbau
 
 **Mito:** «Las personas somos incapaces de razonar de forma bayesiana: ignorar la tasa base es inevitable».
 
-**Realidad:** el rendimiento depende mucho del formato. Con frecuencias naturales, las respuestas bayesianas pasan del 16 % al 46 % y del 28 % al 50 % (Gigerenzer y Hoffrage, 1995). La mejora es grande, aunque no completa: la mitad de las respuestas siguen siendo incorrectas.
+**Realidad:** el rendimiento depende mucho del formato. Con frecuencias naturales, las respuestas bayesianas pasan del 16 % al 46 % y del 28 % al 50 % (Gigerenzer y Hoffrage, 1995). La mejora es grande, aunque no completa: alrededor de la mitad de las respuestas siguen sin ser bayesianas.
 
 ### Conceptos clave
 
@@ -256,9 +256,9 @@ La teoría es sugerente y está en **debate**: explica bien muchos datos ya cono
 
 ### Mito frecuente
 
-**Mito:** «Cuanto más inteligente es una persona, menos sesgos comete: una inteligencia alta elimina los errores de razonamiento».
+**Mito:** «El sesgo de confirmación demuestra que el razonamiento humano está mal diseñado».
 
-**Realidad:** muchos sesgos son relativamente independientes de la capacidad cognitiva. Lo que más protege es la disposición a reflexionar, a detectar el conflicto y a frenar la primera respuesta: la mente reflexiva de Stanovich, distinta de la capacidad que miden los tests de inteligencia. Una persona muy capaz que no se detiene a pensar cae en la misma intuición que cualquiera (Stanovich y West, 2000).
+**Realidad:** si la función principal del razonamiento es producir argumentos y evaluar los ajenos, buscar razones a favor de la propia postura es esperable, y en el diálogo entre personas que discrepan cada parte corrige lo que a la otra se le escapa (Mercier y Sperber, 2011). Además, la prueba positiva es un heurístico razonable en muchos entornos (Klayman y Ha, 1987), y desde la racionalidad ecológica un atajo se valora por su ajuste al entorno, no solo por su distancia a la norma (Gigerenzer y Goldstein, 1996). El sesgo es real y tiene costes, sobre todo al razonar en solitario o entre quienes piensan igual, pero no prueba un diseño defectuoso.
 
 ### Conceptos clave
 

diff --git a/temarios/pensamiento/05a-problemas.md b/temarios/pensamiento/05a-problemas.md
@@ -136,9 +136,9 @@ Un **algoritmo** garantiza la solución si se aplica bien (Unidad 14). Los dos m
 
 ### Mito frecuente
 
-**Mito:** «El insight y la creatividad son cosa del hemisferio derecho, el lado creativo del cerebro».
+**Mito:** «El insight es un golpe de suerte que llega sin trabajo previo».
 
-**Realidad:** Jung-Beeman et al. (2004) asociaron las soluciones por insight a la circunvolución temporal superior anterior derecha, pero esa región forma parte de una red más amplia en la que participan ambos hemisferios (Kounios y Beeman, 2014). En la creatividad en general intervienen redes bilaterales: la red por defecto, la de control ejecutivo y la de saliencia (Beaty et al., 2018; Unidad 8).
+**Realidad:** en el esquema de Wallas (1926), la iluminación llega después de una preparación intensa, y el metaanálisis de Sio y Ormerod (2009) halló que la incubación ayuda más cuanto más larga ha sido la preparación previa (Unidad 8). Para Ohlsson (1992), el insight es un cambio representacional que se produce tras explorar el problema hasta el impasse. Incluso en el estudio de Wagner et al. (2004), el sueño favoreció el descubrimiento del atajo solo después de una sesión de práctica con la tarea.
 
 ### Conceptos clave
 

diff --git a/temarios/pensamiento/04a-razonamiento.md b/temarios/pensamiento/04a-razonamiento.md
@@ -61,7 +61,7 @@ El debate entre el enfoque espacial y el lingüístico no tuvo un ganador. Mucho
 
 ### 9.3 El silogismo categórico
 
-El **silogismo categórico** es la forma de deducción estudiada desde Aristóteles. Consta de dos premisas y una conclusión que relacionan tres términos: el **sujeto** y el **predicado** de la conclusión y un **término medio** que aparece en ambas premisas y desaparece de la conclusión.
+El **silogismo categórico** es la forma de deducción estudiada desde Aristóteles. Tiene dos premisas y una conclusión, y en el conjunto intervienen tres términos: el **sujeto** y el **predicado** de la conclusión y un **término medio** que aparece en ambas premisas y desaparece de la conclusión.
 
 - Todos los fisioterapeutas son sanitarios.
 - Todos los sanitarios están vacunados.
